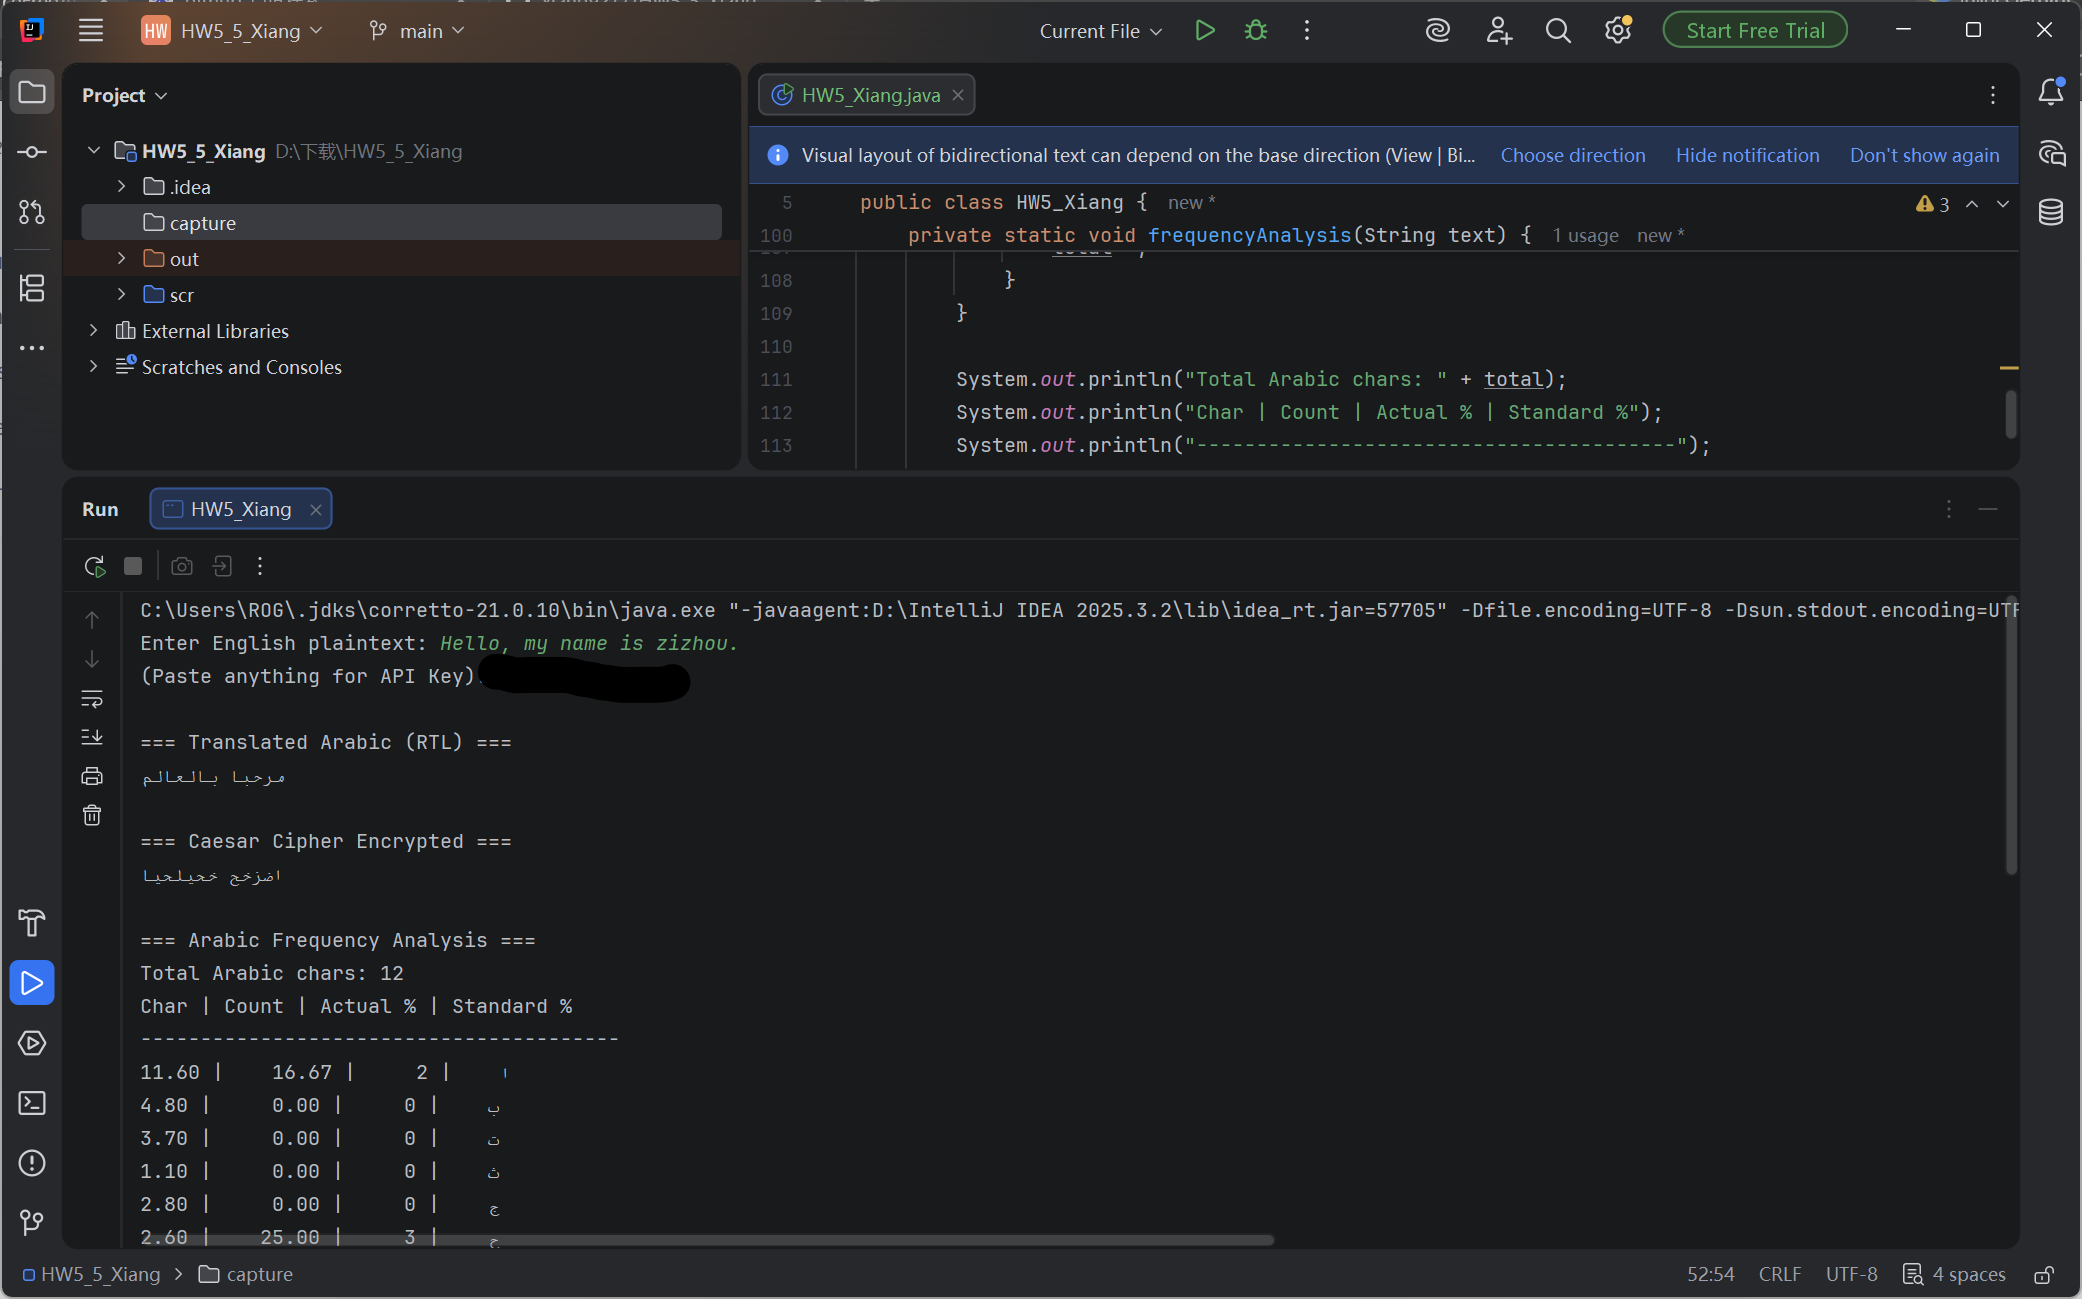
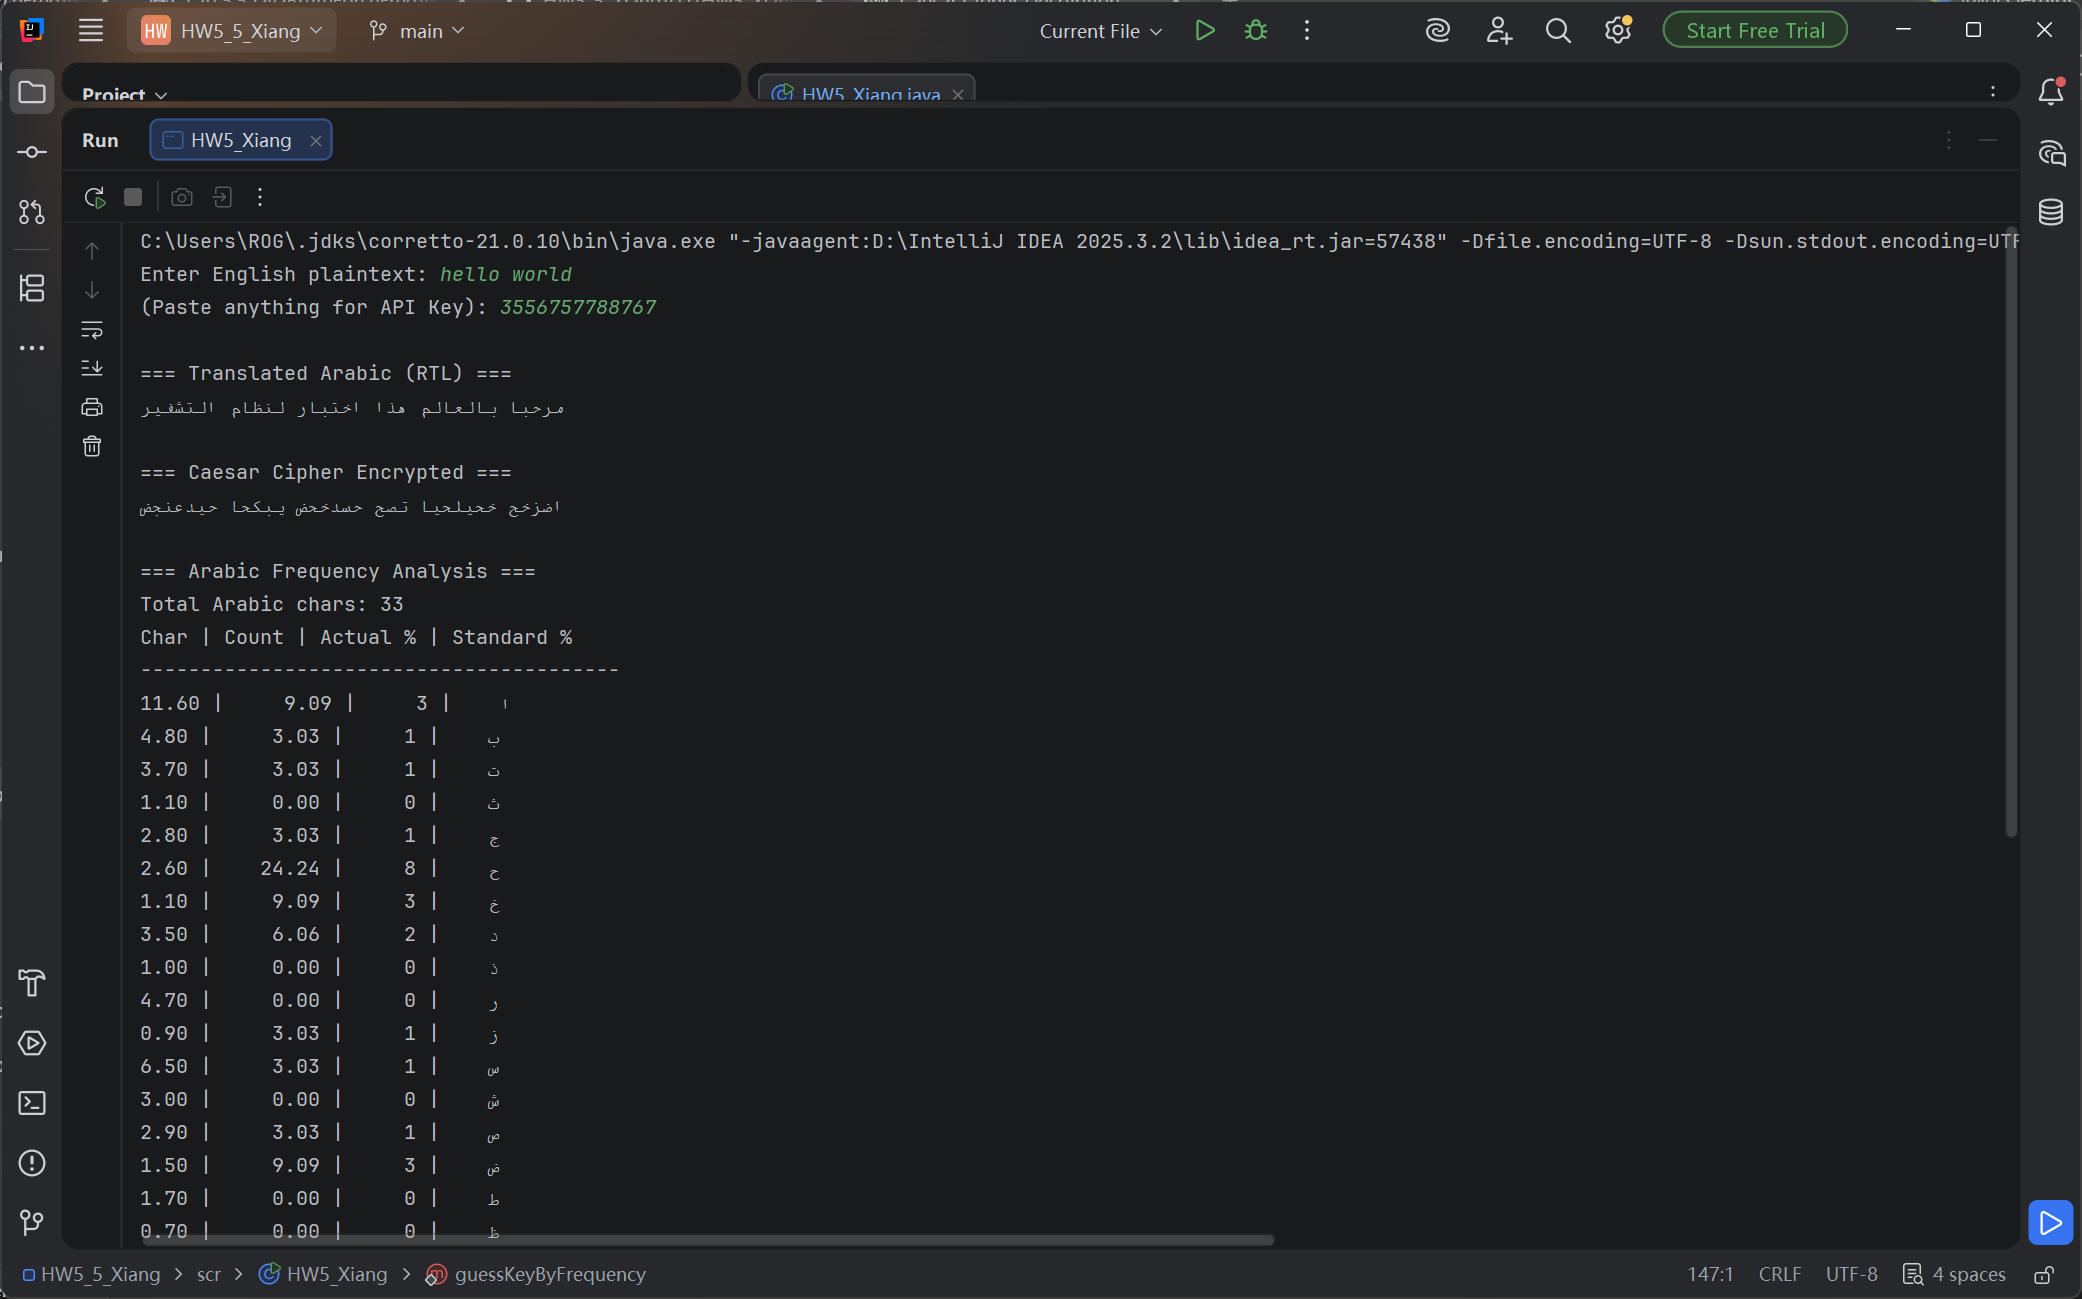
HW

diff --git a/scr/HW5_Xiang.java b/scr/HW5_Xiang.java
@@ -10,37 +10,13 @@
 import java.util.HashMap;
 import java.util.Map;
 import java.util.Scanner;
-
 public class HW5_Xiang {
+
+
     private static final double[] ARABIC_FREQUENCIES = {
-            11.6, // ا
-            4.8,  // ب
-            3.7,  // ت
-            1.1,  // ث
-            2.8,  // ج
-            2.6,  // ح
-            1.1,  // خ
-            3.5,  // د
-            1.0,  // ذ
-            4.7,  // ر
-            0.9,  // ز
-            6.5,  // س
-            3.0,  // ش
-            2.9,  // ص
-            1.5,  // ض
-            1.7,  // ط
-            0.7,  // ظ
-            3.9,  // ع
-            1.0,  // غ
-            3.0,  // ف
-            2.7,  // ق
-            3.6,  // ك
-            5.3,  // ل
-            3.1,  // م
-            7.2,  // ن
-            2.5,  // ه
-            6.0,  // و
-            6.7   // ي
+            11.6, 4.8, 3.7, 1.1, 2.8, 2.6, 1.1, 3.5, 1.0, 4.7,
+            0.9, 6.5, 3.0, 2.9, 1.5, 1.7, 0.7, 3.9, 1.0, 3.0,
+            2.7, 3.6, 5.3, 3.1, 7.2, 2.5, 6.0, 6.7
     };
 
     private static final char[] ARABIC_CHARACTERS = {
@@ -52,37 +28,41 @@ public class HW5_Xiang {
     private static final int CAESAR_KEY = 5;
 
     public static void main(String[] args) {
+
         Scanner scanner = new Scanner(System.in);
 
         System.out.print("Enter English plaintext: ");
         String plaintext = scanner.nextLine();
 
-
         System.out.print("(Paste anything for API Key): ");
         String fakeApiKey = scanner.nextLine();
-
 
         String arabicText = simulateTranslateToArabic(plaintext);
         System.out.println("\n=== Translated Arabic (RTL) ===");
         System.out.println(arabicText);
 
-
         String encrypted = caesarEncrypt(arabicText, CAESAR_KEY);
         System.out.println("\n=== Caesar Cipher Encrypted ===");
         System.out.println(encrypted);
 
-
         System.out.println("\n=== Arabic Frequency Analysis ===");
         frequencyAnalysis(encrypted);
+
+        int guessedKey = guessKeyByFrequency(encrypted);
+        System.out.println("\n=== Guessed Key from Frequency Analysis ===");
+        System.out.println("Guessed Key: " + guessedKey);
+
+        String decrypted = caesarDecrypt(encrypted, guessedKey);
+        System.out.println("\n=== Decrypted Text (Using Guessed Key) ===");
+        System.out.println(decrypted);
 
         scanner.close();
     }
 
 
     private static String simulateTranslateToArabic(String text) {
-        return "مرحبا بالعالم"; // 固定阿拉伯语：Hello World
+        return "مرحبا بالعالم هذا اختبار لنظام التشفير";
     }
-
 
     private static String caesarEncrypt(String text, int key) {
         StringBuilder sb = new StringBuilder();
@@ -98,13 +78,27 @@ public class HW5_Xiang {
         return sb.toString();
     }
 
+
+    private static String caesarDecrypt(String text, int key) {
+        StringBuilder sb = new StringBuilder();
+        for (char c : text.toCharArray()) {
+            int index = getCharIndex(c);
+            if (index != -1) {
+                int newIndex = (index - key + ARABIC_CHARACTERS.length) % ARABIC_CHARACTERS.length;
+                sb.append(ARABIC_CHARACTERS[newIndex]);
+            } else {
+                sb.append(c);
+            }
+        }
+        return sb.toString();
+    }
+
     private static int getCharIndex(char c) {
         for (int i = 0; i < ARABIC_CHARACTERS.length; i++) {
             if (ARABIC_CHARACTERS[i] == c) return i;
         }
         return -1;
     }
-
 
     private static void frequencyAnalysis(String text) {
         Map<Character, Integer> countMap = new HashMap<>();
@@ -131,6 +125,33 @@ public class HW5_Xiang {
                     c, cnt, actual, standard);
         }
     }
-}
 
+    private static int guessKeyByFrequency(String text) {
+        Map<Character, Integer> countMap = new HashMap<>();
+
+        for (char c : text.toCharArray()) {
+            if (getCharIndex(c) != -1) {
+                countMap.put(c, countMap.getOrDefault(c, 0) + 1);
+            }
+        }
+
+        char mostFrequent = ' ';
+        int maxCount = 0;
+
+        for (Map.Entry<Character, Integer> entry : countMap.entrySet()) {
+            if (entry.getValue() > maxCount) {
+                maxCount = entry.getValue();
+                mostFrequent = entry.getKey();
+            }
+        }
+
+        int encryptedIndex = getCharIndex(mostFrequent);
+        int assumedIndex = getCharIndex('ا');
+
+        int guessedKey = (encryptedIndex - assumedIndex + ARABIC_CHARACTERS.length)
+                % ARABIC_CHARACTERS.length;
+
+        return guessedKey;
+    }
+}
 
